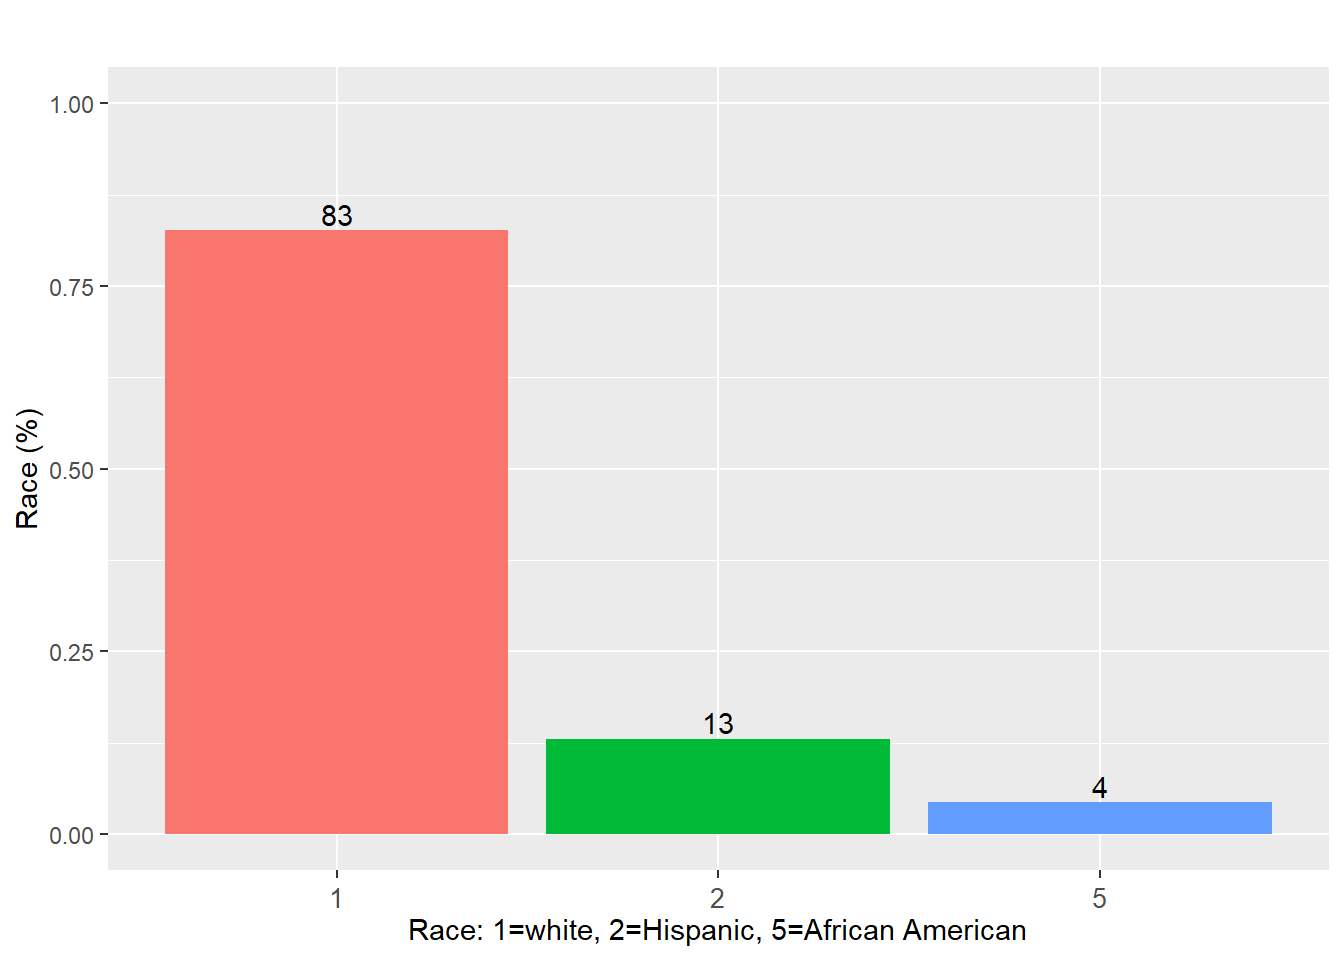
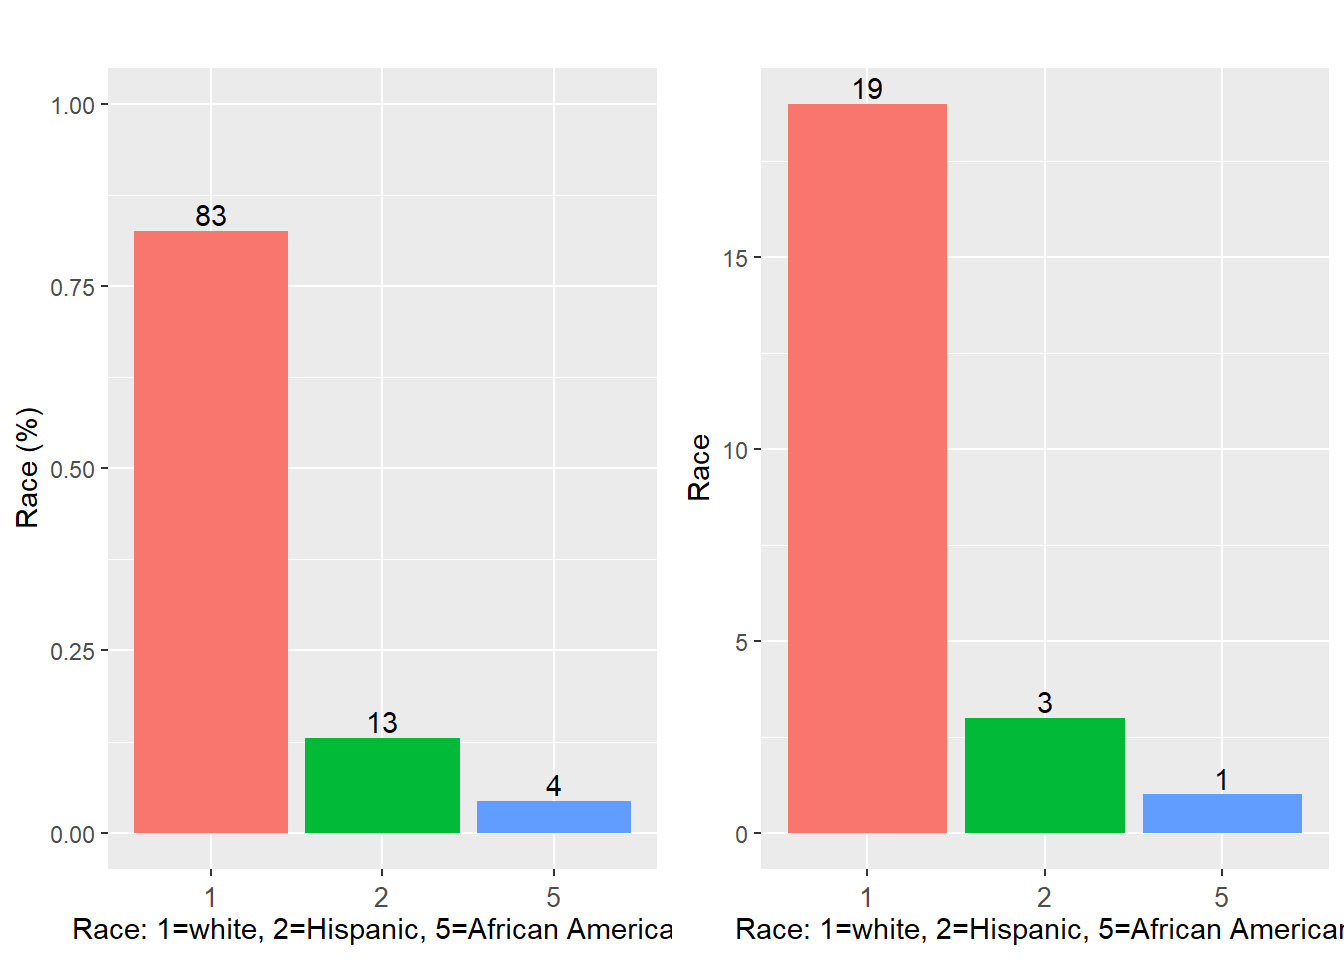
9/16/2022

diff --git a/docs/2022_Sep1_Juan.html b/docs/2022_Sep1_Juan.html
@@ -387,7 +387,7 @@ aria-hidden="true"></span> </a>
 <div class="tab-content">
 <div id="summary" class="tab-pane fade in active">
 <p>
-<strong>Last updated:</strong> 2022-09-15
+<strong>Last updated:</strong> 2022-09-16
 </p>
 <p>
 <strong>Checks:</strong> <span
@@ -425,10 +425,10 @@ changes </a>
 <div id="strongRMarkdownfilestronguncommittedchanges"
 class="panel-collapse collapse">
 <div class="panel-body">
-<p>The R Markdown is untracked by Git. To know which version of the R
-Markdown file created these results, you’ll want to first commit it to
-the Git repo. If you’re still working on the analysis, you can ignore
-this warning. When you’re finished, you can run
+<p>The R Markdown file has unstaged changes. To know which version of
+the R Markdown file created these results, you’ll want to first commit
+it to the Git repo. If you’re still working on the analysis, you can
+ignore this warning. When you’re finished, you can run
 <code>wflow_publish</code> to commit the R Markdown file and build the
 HTML.</p>
 </div>
@@ -521,15 +521,15 @@ project makes it easier to run your code on other machines.</p>
 <div class="panel panel-default">
 <div class="panel-heading">
 <p class="panel-title">
-<a data-toggle="collapse" data-parent="#workflowr-checks" href="#strongRepositoryversionstrongahrefhttpsgithubcomhan16Collaborationstree27eca5d352f0f9b0a762d0307b0b9dacd4191281targetblank27eca5da">
+<a data-toggle="collapse" data-parent="#workflowr-checks" href="#strongRepositoryversionstrongahrefhttpsgithubcomhan16Collaborationstree5a2fa8cda10a34e6531be3a4c740ac5c56328331targetblank5a2fa8ca">
 <span class="glyphicon glyphicon-ok text-success"
 aria-hidden="true"></span> <strong>Repository version:</strong>
-<a href="https://github.com/han16/Collaborations/tree/27eca5d352f0f9b0a762d0307b0b9dacd4191281" target="_blank">27eca5d</a>
+<a href="https://github.com/han16/Collaborations/tree/5a2fa8cda10a34e6531be3a4c740ac5c56328331" target="_blank">5a2fa8c</a>
 </a>
 </p>
 </div>
 <div
[2 lines of base64/hex data omitted]
 class="panel-collapse collapse">
 <div class="panel-body">
 <p>
@@ -539,7 +539,7 @@ reproducibility.
 </p>
 <p>
 The results in this page were generated with repository version
-<a href="https://github.com/han16/Collaborations/tree/27eca5d352f0f9b0a762d0307b0b9dacd4191281" target="_blank">27eca5d</a>.
+<a href="https://github.com/han16/Collaborations/tree/5a2fa8cda10a34e6531be3a4c740ac5c56328331" target="_blank">5a2fa8c</a>.
 See the <em>Past versions</em> tab to see a history of the changes made
 to the R Markdown and HTML files.
 </p>
@@ -556,11 +556,8 @@ were generated:
 Ignored files:
     Ignored:    analysis/.Rhistory
 
-Untracked files:
-    Untracked:  analysis/2022_Sep1_Juan.Rmd
-
 Unstaged changes:
-    Modified:   analysis/2022.Rmd
+    Modified:   analysis/2022_Sep1_Juan.Rmd
 
 </code></pre>
 <p>
@@ -575,10 +572,74 @@ have uncommitted changes.
 <hr>
 </div>
 <div id="versions" class="tab-pane fade">
+
 <p>
-There are no past versions. Publish this analysis with
-<code>wflow_publish()</code> to start tracking its development.
+These are the previous versions of the repository in which changes were
+made to the R Markdown (<code>analysis/2022_Sep1_Juan.Rmd</code>) and
+HTML (<code>docs/2022_Sep1_Juan.html</code>) files. If you’ve configured
+a remote Git repository (see <code>?wflow_git_remote</code>), click on
+the hyperlinks in the table below to view the files as they were in that
+past version.
 </p>
+<div class="table-responsive">
+<table class="table table-condensed table-hover">
+<thead>
+<tr>
+<th>
+File
+</th>
+<th>
+Version
+</th>
+<th>
+Author
+</th>
+<th>
+Date
+</th>
+<th>
+Message
+</th>
+</tr>
+</thead>
+<tbody>
+<tr>
+<td>
+Rmd
+</td>
+<td>
+<a href="https://github.com/han16/Collaborations/blob/5a2fa8cda10a34e6531be3a4c740ac5c56328331/analysis/2022_Sep1_Juan.Rmd" target="_blank">5a2fa8c</a>
+</td>
+<td>
+Han
+</td>
+<td>
+2022-09-15
+</td>
+<td>
+9/15/2022
+</td>
+</tr>
+<tr>
+<td>
+html
+</td>
+<td>
+<a href="https://rawcdn.githack.com/han16/Collaborations/5a2fa8cda10a34e6531be3a4c740ac5c56328331/docs/2022_Sep1_Juan.html" target="_blank">5a2fa8c</a>
+</td>
+<td>
+Han
+</td>
+<td>
+2022-09-15
+</td>
+<td>
+9/15/2022
+</td>
+</tr>
+</tbody>
+</table>
+</div>
 <hr>
 </div>
 </div>
@@ -631,14 +692,40 @@ probability of success
 <div id="race" class="section level2">
 <h2>Race</h2>
 <p><img src="figure/2022_Sep1_Juan.Rmd/unnamed-chunk-4-1.png" width="672" style="display: block; margin: auto;" /></p>
-<pre><code># A tibble: 3 x 2
-   Race     n
-  &lt;int&gt; &lt;int&gt;
-1     1    19
-2     2     3
-3     5     1</code></pre>
 <ul>
 <li>sample size is not large enough to test the difference</li>
+</ul>
+</div>
+<div id="t1-_t2-_t3-_t4-_t5-and-_t6" class="section level2">
+<h2>_T1, _T2, _T3, _T4, _T5 and _T6</h2>
+<div id="trajectory-plot" class="section level3">
+<h3>trajectory plot</h3>
+<p><img src="figure/2022_Sep1_Juan.Rmd/unnamed-chunk-5-1.png" width="672" style="display: block; margin: auto;" /></p>
+</div>
+<div id="test-difference-between-current-time-and-the-next-one"
+class="section level3">
+<h3>test difference between current time and the next one</h3>
+<pre><code># A tibble: 5 x 2
+  comparison p_value
+  &lt;chr&gt;        &lt;dbl&gt;
+1 T1 vs T2      0   
+2 T2 vs T3      0   
+3 T3 vs T4      0.03
+4 T4 vs T5      0.03
+5 T5 vs T6      0.08</code></pre>
+<ul>
+<li>use paired two sample t test</li>
+</ul>
+</div>
+<div id="test-different-across-all-time-points" class="section level3">
+<h3>test different across all time points</h3>
+<pre><code>ANOVA Table (type III tests)
+
+  Effect  DFn   DFd      F        p p&lt;.05   ges
+1   time 2.61 57.34 15.532 5.39e-07     * 0.365</code></pre>
+<ul>
+<li><p>use repeated anova test</p></li>
+<li><p>small p value indicates significant change over time</p></li>
 </ul>
 <br>
 <p>
@@ -666,30 +753,31 @@ attached base packages:
 [1] stats     graphics  grDevices utils     datasets  methods   base     
 
 other attached packages:
- [1] ggpubr_0.4.0     kableExtra_1.3.4 forcats_0.5.1    stringr_1.4.0   
- [5] dplyr_1.0.7      purrr_0.3.4      readr_2.1.1      tidyr_1.1.4     
- [9] tibble_3.1.6     ggplot2_3.3.5    tidyverse_1.3.1 
+ [1] rstatix_0.7.0    ggpubr_0.4.0     kableExtra_1.3.4 forcats_0.5.1   
+ [5] stringr_1.4.0    dplyr_1.0.7      purrr_0.3.4      readr_2.1.1     
+ [9] tidyr_1.1.4      tibble_3.1.6     ggplot2_3.3.5    tidyverse_1.3.1 
 
 loaded via a namespace (and not attached):
  [1] httr_1.4.2        sass_0.4.1        jsonlite_1.7.3    viridisLite_0.4.0
  [5] carData_3.0-5     modelr_0.1.8      bslib_0.3.1       assertthat_0.2.1 
  [9] highr_0.9         cellranger_1.1.0  yaml_2.2.2        pillar_1.6.5     
 [13] backports_1.4.1   glue_1.6.0        digest_0.6.29     promises_1.2.0.1 
-[17] ggsignif_0.6.3    rvest_1.0.2       colorspace_2.0-2  htmltools_0.5.2  
-[21] httpuv_1.6.5      pkgconfig_2.0.3   broom_0.7.11      haven_2.4.3      
-[25] scales_1.1.1      webshot_0.5.2     svglite_2.0.0     later_1.3.0      
-[29] tzdb_0.2.0        git2r_0.29.0      generics_0.1.1    farver_2.1.0     
-[33] car_3.0-12        ellipsis_0.3.2    withr_2.4.3       cli_3.1.1        
-[37] magrittr_2.0.1    crayon_1.4.2      readxl_1.3.1      evaluate_0.14    
-[41] fs_1.5.2          fansi_1.0.2       rstatix_0.7.0     xml2_1.3.3       
-[45] tools_4.1.2       hms_1.1.1         lifecycle_1.0.1   munsell_0.5.0    
-[49] reprex_2.0.1      compiler_4.1.2    jquerylib_0.1.4   systemfonts_1.0.3
-[53] rlang_0.4.12      grid_4.1.2        rstudioapi_0.13   labeling_0.4.2   
-[57] rmarkdown_2.11    gtable_0.3.0      abind_1.4-5       DBI_1.1.2        
-[61] R6_2.5.1          lubridate_1.8.0   knitr_1.37        fastmap_1.1.0    
-[65] utf8_1.2.2        workflowr_1.7.0   rprojroot_2.0.2   stringi_1.7.6    
-[69] Rcpp_1.0.8        vctrs_0.3.8       dbplyr_2.1.1      tidyselect_1.1.1 
-[73] xfun_0.29        </code></pre>
+[17] ggsignif_0.6.3    rvest_1.0.2       colorspace_2.0-2  cowplot_1.1.1    
+[21] htmltools_0.5.2   httpuv_1.6.5      pkgconfig_2.0.3   broom_0.7.11     
+[25] haven_2.4.3       scales_1.1.1      webshot_0.5.2     svglite_2.0.0    
+[29] whisker_0.4       later_1.3.0       tzdb_0.2.0        git2r_0.29.0     
+[33] generics_0.1.1    farver_2.1.0      car_3.0-12        ellipsis_0.3.2   
+[37] withr_2.4.3       cli_3.1.1         magrittr_2.0.1    crayon_1.4.2     
+[41] readxl_1.3.1      evaluate_0.14     fs_1.5.2          fansi_1.0.2      
+[45] xml2_1.3.3        tools_4.1.2       hms_1.1.1         lifecycle_1.0.1  
+[49] munsell_0.5.0     reprex_2.0.1      compiler_4.1.2    jquerylib_0.1.4  
+[53] systemfonts_1.0.3 rlang_0.4.12      grid_4.1.2        rstudioapi_0.13  
+[57] labeling_0.4.2    rmarkdown_2.11    gtable_0.3.0      abind_1.4-5      
+[61] DBI_1.1.2         R6_2.5.1          lubridate_1.8.0   knitr_1.37       
+[65] fastmap_1.1.0     utf8_1.2.2        workflowr_1.7.0   rprojroot_2.0.2  
+[69] stringi_1.7.6     Rcpp_1.0.8        vctrs_0.3.8       dbplyr_2.1.1     
+[73] tidyselect_1.1.1  xfun_0.29        </code></pre>
+</div>
 </div>
 </div>
 
